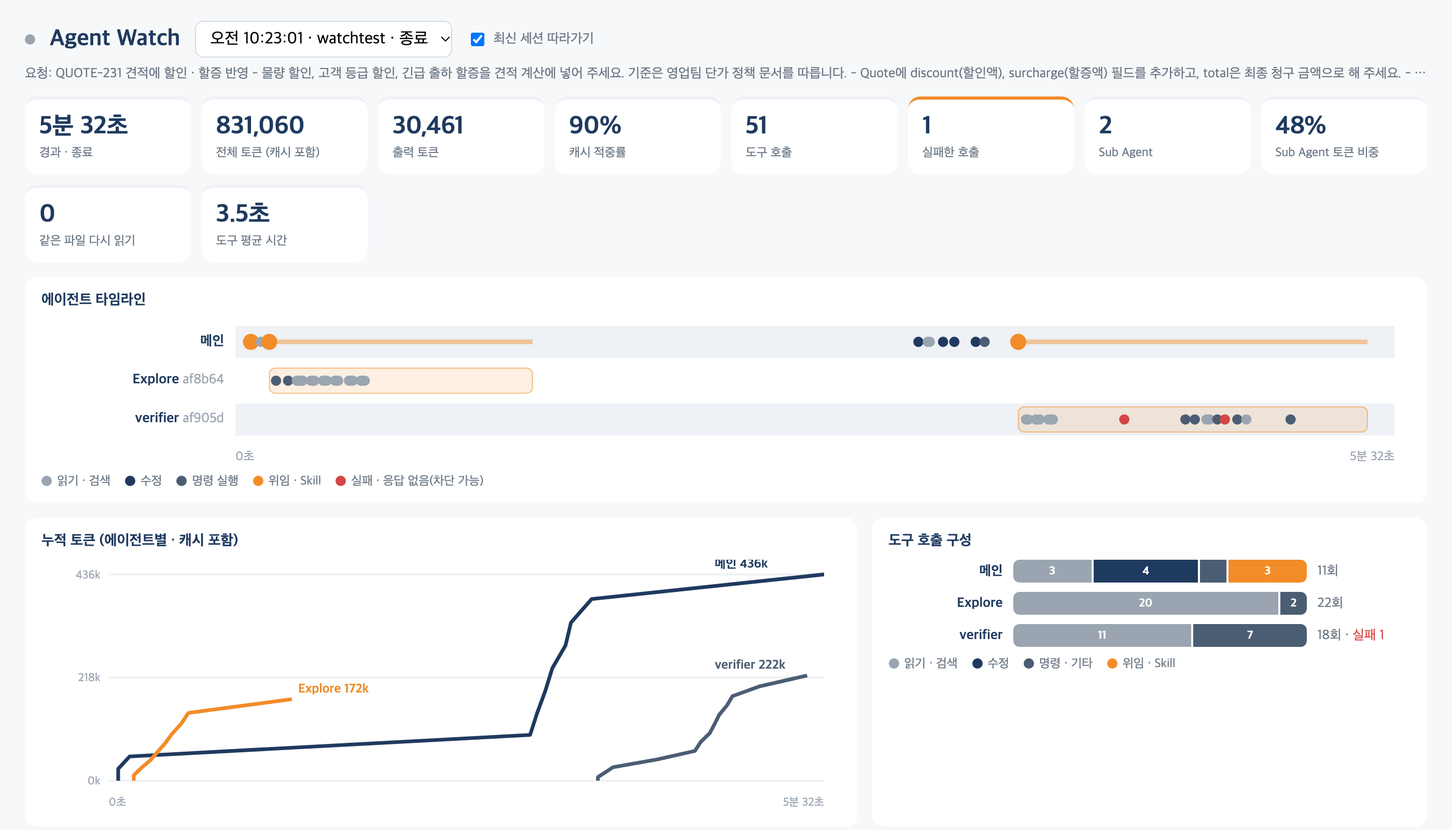
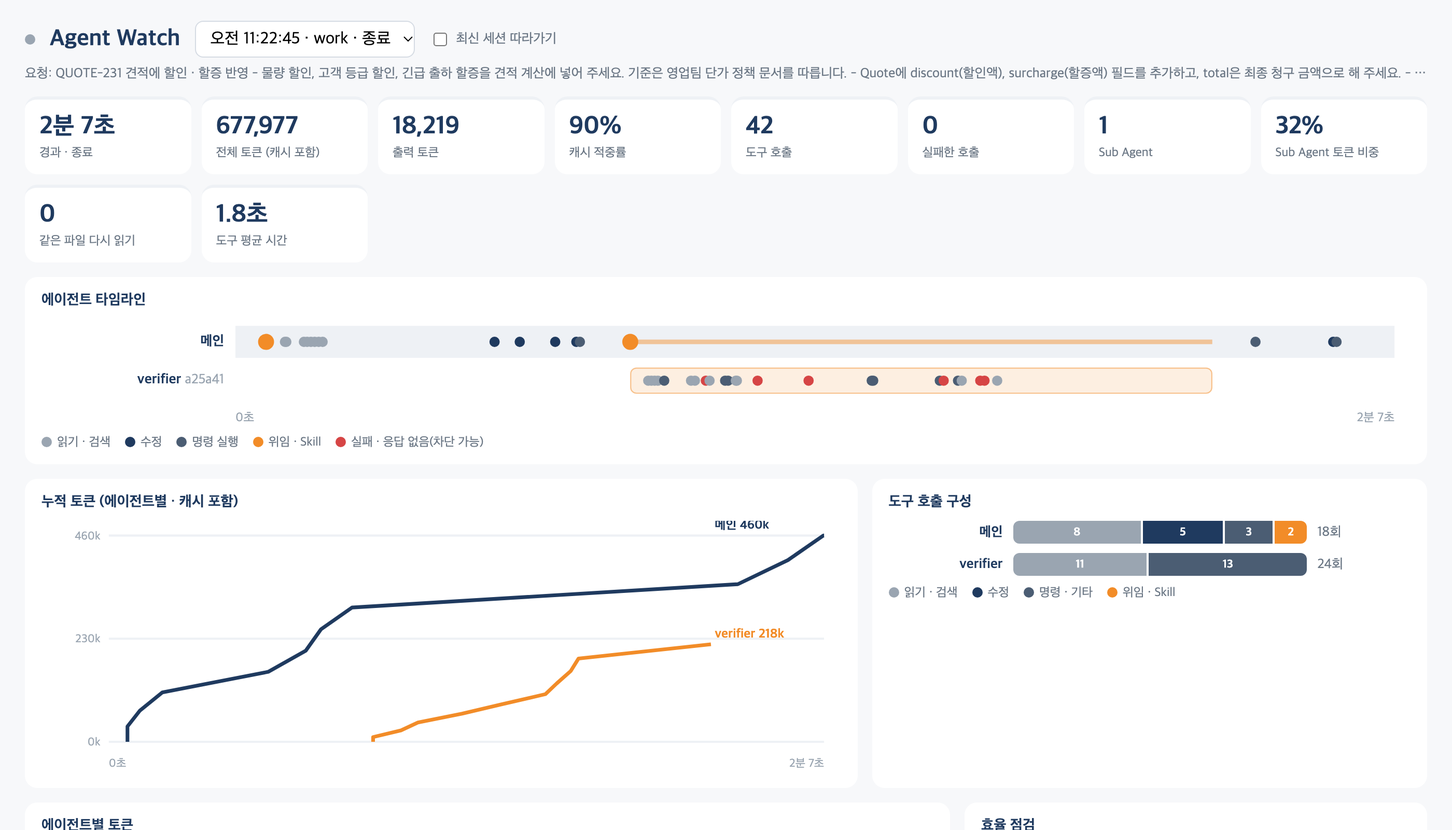
Sonnet 5.5로 재측정 (19회 · 저장소 안/밖 변형) — Ch4 실측 슬라이드 2장, Agent Watch 캡처 교체, 모델 5.5 고정 · --variant · --watch · 편차 표시

diff --git a/docs/index.html b/docs/index.html
@@ -1419,12 +1419,20 @@ if any(b in i.get('command', '') for b in bad) \
   <div class="body"><div class="mid"><table class="dbt"><thead><tr><th>항목</th><th>확인</th></tr></thead><tbody><tr><td><b>Hook · 명령</b></td><td>어떤 명령을 실행하는가 · 외부 전송은 없는가</td></tr><tr><td><b>권한</b></td><td>자동 허용 범위가 넓지 않은가</td></tr><tr><td><b>토큰</b></td><td>상시 로드되는 Skill · 지침 양</td></tr><tr><td><b>사내 규정</b></td><td>외부 저장소 설치 허용 여부</td></tr></tbody></table><div class="dbnote"><span>원칙</span> 공개 하네스도 내 평가셋으로 잰 뒤에 쓴다</div></div></div>
 </section>
 
-<section class="slide lt" data-title="실측: 같은 과제, 세 조건 (Sonnet)">
+<section class="slide lt" data-title="실측 ①: 정보가 저장소에 다 있을 때">
   <div class="coord"><b></b> / <span class="tot"></span></div>
   <div class="eyebrow"><span class="tag">Ch4</span></div>
-  <h2 class="s-title sm">실측: 같은 과제, 세 조건 (Sonnet)</h2>
+  <h2 class="s-title sm">실측 ①: 정보가 저장소에 다 있을 때</h2>
   <div class="rule"></div>
-  <div class="body"><div class="mid"><div class="hbars"><div class="hbt">숨은 인수 테스트 통과 (15개 중) · 견적 할인 · 할증 과제</div><div class="hb" style="--d:0.00s"><span class="hn">맨몸 ×3</span><span class="ht"><span class="hf" style="width:100.0%"></span></span><span class="hv">15 · 15 · 15</span></div><div class="hb" style="--d:0.10s"><span class="hn">내 하네스 ×3</span><span class="ht"><span class="hf" style="width:100.0%"></span></span><span class="hv">15 · 15 · 15</span></div><div class="hb hl" style="--d:0.20s"><span class="hn">Superpowers ×1</span><span class="ht"><span class="hf" style="width:1.3%"></span></span><span class="hv">0 (질문하고 멈춤)</span></div></div><div class="hbars"><div class="hbt">평균 시간 (막대) · 전체 토큰 (캐시 포함)</div><div class="hb" style="--d:0.00s"><span class="hn">맨몸</span><span class="ht"><span class="hf" style="width:55.0%"></span></span><span class="hv">165초 · 52만</span></div><div class="hb hl" style="--d:0.10s"><span class="hn">내 하네스</span><span class="ht"><span class="hf" style="width:96.3%"></span></span><span class="hv">289초 · 72만</span></div><div class="hb" style="--d:0.20s"><span class="hn">Superpowers</span><span class="ht"><span class="hf" style="width:30.0%"></span></span><span class="hv">90초 · 29만</span></div></div><div class="dbnote"><span>배운 점</span> 정보가 저장소에 다 있으면 Sonnet은 맨몸으로도 맞춤 · 하네스는 절차를 고정하지만 비용이 듦 · 대화형 하네스는 자동 실행에서 멈춤</div><div class="src">출처 · <a href="https://github.com/TunaLee/posco-dx/tree/main/labs/demo_quote" target="_blank" rel="noopener">직접 실측 2026.10 · labs/demo_quote</a></div></div></div>
+  <div class="body"><div class="mid"><div class="hbars"><div class="hbt">Claude Sonnet 5.5 · 견적 할인 · 할증 과제 · 숨은 인수 테스트 (15개 중)</div><div class="hb" style="--d:0.00s"><span class="hn">맨몸 ×5</span><span class="ht"><span class="hf" style="width:100.0%"></span></span><span class="hv">15 · 15 · 15 · 15 · 15</span></div><div class="hb" style="--d:0.10s"><span class="hn">내 하네스 ×5</span><span class="ht"><span class="hf" style="width:100.0%"></span></span><span class="hv">15 · 15 · 15 · 15 · 15</span></div><div class="hb hl" style="--d:0.20s"><span class="hn">Superpowers ×3</span><span class="ht"><span class="hf" style="width:1.3%"></span></span><span class="hv">0 · 0 · 0 (질문하고 멈춤)</span></div></div><div class="hbars"><div class="hbt">실행 1회 평균 토큰 (캐시 포함) · 시간 (중앙값)</div><div class="hb" style="--d:0.00s"><span class="hn">맨몸</span><span class="ht"><span class="hf" style="width:51.7%"></span></span><span class="hv">31만 토큰 · 43초</span></div><div class="hb hl" style="--d:0.10s"><span class="hn">내 하네스</span><span class="ht"><span class="hf" style="width:86.7%"></span></span><span class="hv">52만 토큰 · 92초</span></div><div class="hb" style="--d:0.20s"><span class="hn">Superpowers</span><span class="ht"><span class="hf" style="width:33.3%"></span></span><span class="hv">20만 토큰 · 29초</span></div></div><div class="dbnote"><span>배운 점</span> 답이 저장소에 있으면 Sonnet 5.5는 맨몸으로도 맞춘다 · 하네스는 절차를 고정하는 대신 토큰 1.7배 · 대화형 하네스는 자동 실행에서 멈춘다</div><div class="src">출처 · <a href="https://github.com/TunaLee/posco-dx/tree/main/labs/demo_quote" target="_blank" rel="noopener">직접 실측 2026.10.14 · Sonnet 5.5 · labs/demo_quote</a></div></div></div>
+</section>
+
+<section class="slide lt" data-title="실측 ②: 확정 정보가 저장소 밖에 있을 때">
+  <div class="coord"><b></b> / <span class="tot"></span></div>
+  <div class="eyebrow"><span class="tag">Ch4</span></div>
+  <h2 class="s-title sm">실측 ②: 확정 정보가 저장소 밖에 있을 때</h2>
+  <div class="rule"></div>
+  <div class="body"><div class="mid"><div class="hbars"><div class="hbt">같은 과제 · 확정 회의록만 저장소에서 뺌 (확정본은 하네스 Skill에만)</div><div class="hb" style="--d:0.00s"><span class="hn">맨몸 ×3</span><span class="ht"><span class="hf" style="width:51.3%"></span></span><span class="hv">5 · 13 · 5</span></div><div class="hb hl" style="--d:0.10s"><span class="hn">내 하네스 ×3</span><span class="ht"><span class="hf" style="width:100.0%"></span></span><span class="hv">15 · 15 · 15</span></div></div><div class="qt"><p>2026Q3 개정안은 「검토 중」인 초안이라 쓰지 않았습니다. 2025 시행본을 적용했습니다</p><span>맨몸 Sonnet 5.5의 작업 보고 (3회 중 2회)</span></div><div class="dbnote"><span>배운 점</span> 모델은 신중했고 가정도 밝혔지만, 회사가 확정한 사실은 모른다 → 그 지식을 넣는 것이 하네스</div><div class="src">출처 · <a href="https://github.com/TunaLee/posco-dx/tree/main/labs/demo_quote" target="_blank" rel="noopener">직접 실측 2026.10.14 · Sonnet 5.5 · labs/demo_quote</a></div></div></div>
 </section>
 
 <section class="slide lt labs" data-title="[실습 4-1] 같은 과제, 네 가지 하네스">

diff --git a/labs/agent_watch/dashboard.html b/labs/agent_watch/dashboard.html
@@ -101,6 +101,8 @@ function pickSession(){
   const sel = document.getElementById("sel");
   const opts = ids.map(id => `<option value="${id}">${new Date((S[id].started||0)*1000).toLocaleTimeString("ko-KR")} · ${esc((S[id].cwd||"").split("/").pop())} · ${esc(S[id].status||"")}</option>`).join("");
   if (sel.dataset.o !== opts) { sel.innerHTML = opts; sel.dataset.o = opts; }
+  const want = new URLSearchParams(location.search).get("session");   // ?session=앞부분 으로 고정
+  if (want && !cur) { cur = ids.find(id => id.startsWith(want) || (S[id].cwd || "").includes(want)) || null; if (cur) document.getElementById("follow").checked = false; }
   if (document.getElementById("follow").checked || !cur || !S[cur]) cur = ids[0];
   sel.value = cur;
   return S[cur];

diff --git a/labs/demo_quote/dashboard.py b/labs/demo_quote/dashboard.py
@@ -12,8 +12,11 @@ from pathlib import Path
 HERE = Path(__file__).resolve().parent
 RUNS = HERE / "runs"
 N, G, O, L = "#1F3A5F", "#9AA5B1", "#F28C28", "#EEF1F5"
-LABEL = {"bare": "하네스 없음", "harness": "내 하네스", "superpowers": "Superpowers"}
-ORDER = ["bare", "harness", "superpowers"]
+LABEL = {"bare": "하네스 없음", "harness": "내 하네스", "superpowers": "Superpowers",
+         "repo:bare": "저장소 · 맨몸", "repo:harness": "저장소 · 내 하네스", "repo:superpowers": "저장소 · Superpowers",
+         "ext:bare": "저장소 밖 · 맨몸", "ext:harness": "저장소 밖 · 내 하네스", "ext:superpowers": "저장소 밖 · Superpowers"}
+ORDER = [f"{v}:{c}" for v in ("repo", "ext") for c in ("bare", "harness", "superpowers")]
+CLS = lambda k: k.split(":")[-1]
 
 
 def total_tokens(r):
@@ -30,13 +33,18 @@ def avg(xs):
 
 
 def bars(title, unit, rows, fmt="{:,.0f}", better="high"):
-    mx = max([v for _, v in rows] + [1e-9])
+    """rows: (조건, 평균[, 최소, 최대])"""
+    rows = [(r[0], r[1], r[2] if len(r) > 2 else None, r[3] if len(r) > 3 else None) for r in rows]
+    mx = max([(r[3] if r[3] is not None else r[1]) for r in rows] + [1e-9])
     out = f'<div class="card"><h3>{title} <small>{ {"high": "높을수록 좋음", "low": "낮을수록 좋음"}.get(better, "")}</small></h3>'
-    for name, v in rows:
+    for name, v, lo, hi in rows:
         w = 100 * v / mx
+        rng = (f'<span class="rng" style="left:{100 * lo / mx:.1f}%;width:{max(.6, 100 * (hi - lo) / mx):.1f}%"></span>'
+               if lo is not None and hi is not None and hi > lo else "")
+        spread = f'<small> ({fmt.format(lo)}~{fmt.format(hi)})</small>' if rng else ""
         out += (f'<div class="bar"><span class="bl">{LABEL.get(name, name)}</span>'
-                f'<span class="track"><span class="fill {name}" style="width:{w:.1f}%"></span></span>'
-                f'<span class="bv">{fmt.format(v)}{unit}</span></div>')
+                f'<span class="track"><span class="fill {CLS(name)}" style="width:{w:.1f}%"></span>{rng}</span>'
+                f'<span class="bv">{fmt.format(v)}{unit}{spread}</span></div>')
     return out + "</div>"
 
 
@@ -94,11 +102,18 @@ def main():
             rs.append(r)
     if not rs:
         raise SystemExit("runs/ 에 결과가 없다. 먼저 run_demo.py 를 돌린다.")
-    conds = [c for c in ORDER if any(r["cond"] == c for r in rs)]
-    by = {c: [r for r in rs if r["cond"] == c] for c in conds}
-    agg = lambda f: [(c, avg([f(r) for r in by[c]])) for c in conds]
+    key = lambda r: f'{r.get("variant", "repo")}:{r["cond"]}'
+    conds = [c for c in ORDER if any(key(r) == c for r in rs)]
+    by = {c: [r for r in rs if key(r) == c] for c in conds}
+
+    def agg(f):
+        out = []
+        for c in conds:
+            xs = [f(r) for r in by[c] if f(r) is not None]
+            out.append((c, avg(xs), min(xs) if xs else 0, max(xs) if xs else 0))
+        return out
     head = "".join(
-        f'<div class="kpi {c}"><b>{LABEL[c]}</b><span>{len(by[c])}회</span>'
+        f'<div class="kpi {CLS(c)}"><b>{LABEL[c]}</b><span>{len(by[c])}회 · {", ".join(sorted({m.replace("claude-", "") for r in by[c] for m in r.get("models_used", [])}))}</span>'
         f'<em>{avg([r["hidden_pass"] for r in by[c]]):.1f}<small>/15</small></em><i>숨은 테스트 평균</i></div>' for c in conds)
     grid = (bars("숨은 테스트 통과", "/15", agg(lambda r: r["hidden_pass"]), "{:.1f}")
             + bars("회귀 테스트", "/5", agg(lambda r: r["regression_pass"]), "{:.1f}")
@@ -111,12 +126,12 @@ def main():
     rows = ""
     for r in rs:
         rows += ("<tr>" + "".join(f"<td>{x}</td>" for x in [
-            r["name"], LABEL.get(r["cond"]), f'{r["hidden_pass"]}/15', f'{r["regression_pass"]}/5',
+            r["name"], LABEL.get(key(r)), f'{r["hidden_pass"]}/15', f'{r["regression_pass"]}/5',
             "O" if r["regression_file_unchanged"] else "<b class=o>수정됨</b>",
             f"{total_tokens(r):,}", f'{r.get("output", 0):,}', r["wall_s"], r.get("turns"),
             ", ".join(r["sub_agents"]) or "-", ", ".join(r["skills"]) or "-", r["blocked"] + r["stop_blocked"],
             " · ".join(n for n, k in (("2025", "read_2025"), ("초안", "read_draft"), ("회의록", "read_minutes"), ("확정본", "read_reference")) if r.get(k)) or "-", r["rule_violations"]]) + "</tr>")
-    tls = "".join(f'<div class="card"><h3>{r["name"]} · {LABEL.get(r["cond"])} · 숨은 테스트 {r["hidden_pass"]}/15</h3>{timeline(r["name"])}</div>'
+    tls = "".join(f'<div class="card"><h3>{r["name"]} · {LABEL.get(key(r))} · 숨은 테스트 {r["hidden_pass"]}/15</h3>{timeline(r["name"])}</div>'
                   for r in rs)
     page = f"""<!doctype html><html lang="ko"><meta charset="utf-8"><meta name="viewport" content="width=device-width,initial-scale=1">
 <title>하네스 비교 대시보드</title>
@@ -130,15 +145,17 @@ h1{{margin:0 0 4px;font-size:26px}} .sub{{color:#6B7785;margin-bottom:20px}}
 .grid{{display:grid;grid-template-columns:repeat(auto-fill,minmax(420px,1fr));gap:14px;margin-bottom:18px}}
 .card{{background:#fff;border-radius:12px;padding:16px 18px;margin-bottom:14px}} .card h3{{margin:0 0 12px;font-size:15px}}
 .card h3 small{{color:#9AA5B1;font-weight:500;margin-left:6px}}
-.bar{{display:grid;grid-template-columns:110px 1fr 90px;align-items:center;gap:10px;margin:7px 0;font-size:13px}}
-.track{{background:{L};height:16px;border-radius:8px;overflow:hidden}} .fill{{display:block;height:100%;background:{G}}}
+.bar{{display:grid;grid-template-columns:150px 1fr 170px;align-items:center;gap:10px;margin:7px 0;font-size:13px}}
+.track{{background:{L};height:16px;border-radius:8px;overflow:hidden;position:relative}}
+.rng{{position:absolute;top:6px;height:4px;background:{N};opacity:.55;border-radius:2px}}
+.bv small{{color:#9AA5B1;font-weight:500}} .fill{{display:block;height:100%;background:{G}}}
 .fill.harness{{background:{O}}} .fill.superpowers{{background:{N}}} .bv{{text-align:right;font-weight:700}}
 table{{border-collapse:collapse;width:100%;font-size:12.5px;background:#fff}} th,td{{padding:7px 8px;border-bottom:1px solid {L};text-align:left}}
 th{{background:{N};color:#fff;font-weight:600}} .o{{color:{O}}}
 .tl{{width:100%;height:auto}} .ln{{font-size:12px;fill:{N};font-weight:700}} .ax{{font-size:11px;fill:#9AA5B1}}
 .legend span{{display:inline-flex;align-items:center;gap:6px;margin-right:16px;font-size:13px}} .legend i{{width:11px;height:11px;border-radius:50%;display:inline-block}}
 </style>
-<h1>하네스 비교 대시보드</h1><div class="sub">같은 과제 (QUOTE-231 할인 · 할증) · 모델 {rs[0]["model"]} · 숨은 인수 테스트 15개로 채점</div>
+<h1>하네스 비교 대시보드</h1><div class="sub">같은 과제 (QUOTE-231 할인 · 할증) · 메인 모델 {rs[0]["model"]} · 숨은 인수 테스트 15개로 채점 · 막대 = 평균, 짙은 선 = 최소~최대</div>
 <div class="kpis">{head}</div><div class="grid">{grid}</div>
 <div class="card"><h3>실행별 상세</h3><table><tr><th>실행</th><th>조건</th><th>숨은 테스트</th><th>회귀</th><th>회귀 파일</th><th>전체 토큰</th><th>출력</th><th>초</th><th>턴</th><th>Sub Agent</th><th>Skill</th><th>차단</th><th>읽은 정책</th><th>규칙 위반</th></tr>{rows}</table></div>
 <div class="card legend"><h3>타임라인</h3><span><i style="background:{O}"></i>Sub Agent · Skill · Hook 차단</span><span><i style="background:{N}"></i>파일 수정</span><span><i style="background:{G}"></i>읽기 · 검색 · 실행</span></div>

diff --git a/labs/demo_quote/run_demo.py b/labs/demo_quote/run_demo.py
@@ -8,6 +8,8 @@
 
 사용
   python3 run_demo.py --cond bare harness --k 3            # 실제 실행 (계정 사용량 소모)
+  python3 run_demo.py --variant ext --cond bare harness     # 확정 정책이 저장소 밖(하네스 안)에만 있을 때
+  python3 run_demo.py --watch ...                           # Agent Watch(../agent_watch)로 실시간 보기
   python3 run_demo.py --show-cmd --cond harness            # 명령만 보기
   python3 dashboard.py                                     # runs/ 결과를 대시보드 HTML로
 """
@@ -28,42 +30,53 @@ RUNS = HERE / "runs"
 SUPERPOWERS = Path.home() / ".claude/plugins/cache/superpowers-marketplace/superpowers/5.1.0"
 TOOLS = "Read,Grep,Glob,Edit,Write,MultiEdit,TodoWrite,Task,Agent,Skill,Bash(python3:*),Bash(ls:*),Bash(cat:*)"
 TEST_CMD = [sys.executable, "-m", "unittest"]
+MODEL = "claude-sonnet-5-5"
+# 별칭(sonnet · haiku · opus)도 5.5 세대로 고정 — Sub Agent(Explore=haiku 등)까지
+ALIASES = {"ANTHROPIC_DEFAULT_SONNET_MODEL": "claude-sonnet-5-5",
+           "ANTHROPIC_DEFAULT_HAIKU_MODEL": "claude-haiku-5-5",
+           "ANTHROPIC_DEFAULT_OPUS_MODEL": "claude-opus-5-5"}
+MINUTES = "docs/wiki/회의록_2026-09-02_단가정책확정.md"
+WATCH = HERE.parent / "agent_watch"
 
 
 def sha(p):
     return hashlib.sha256(Path(p).read_bytes()).hexdigest()
 
 
-def prepare(cond, name):
+def prepare(cond, name, variant, watch):
     wd = RUNS / name / "work"
     shutil.copytree(HERE / "project", wd)
+    if variant == "ext":                      # 확정 내용이 저장소에 없다 (하네스에만)
+        (wd / MINUTES).unlink()
     if cond == "harness":
         shutil.copytree(HERE / "harness", wd, dirs_exist_ok=True)
+    if watch:
+        subprocess.run([sys.executable, str(WATCH / "install.py"), str(wd)], check=True, capture_output=True)
     return wd
 
 
-def command(cond, model):
+def command(cond, model, watch=False):
     cmd = ["claude", "-p", (HERE / "task.md").read_text(encoding="utf-8"),
            "--model", model, "--output-format", "stream-json", "--verbose",
            "--permission-mode", "acceptEdits", "--allowedTools", TOOLS]
-    if cond == "harness":
-        cmd += ["--setting-sources", "project"]
-    else:
-        cmd += ["--setting-sources", ""]
+    src = ["project"] if cond == "harness" else []
+    if watch:
+        src.append("local")                   # Agent Watch Hook (settings.local.json)
+    cmd += ["--setting-sources", ",".join(src)]
     if cond == "superpowers":
         cmd += ["--plugin-dir", str(SUPERPOWERS)]
     return cmd
 
 
-def run_agent(cond, name, model, timeout):
-    wd = prepare(cond, name)
-    env = dict(os.environ)
+def run_agent(cond, name, model, timeout, variant, watch):
+    wd = prepare(cond, name, variant, watch)
+    env = dict(os.environ, **ALIASES)
     env.pop("ANTHROPIC_API_KEY", None)          # 구독(Business · Max) 계정으로
     env["CLAUDE_PROJECT_DIR"] = str(wd)
     t0 = time.time()
     events = []
     with open(RUNS / name / "events.jsonl", "w", encoding="utf-8") as log:
-        p = subprocess.Popen(command(cond, model), cwd=wd, env=env, stdout=subprocess.PIPE,
+        p = subprocess.Popen(command(cond, model, watch), cwd=wd, env=env, stdout=subprocess.PIPE,
                              stderr=subprocess.DEVNULL, text=True)
         try:
             for line in p.stdout:
@@ -143,16 +156,17 @@ def grade(wd, name):
             if (root / rel).exists():
                 return root / rel
     m["files_changed"] = sorted(str(p.relative_to(wd)) for p in wd.rglob("*")
-                                if p.is_file() and "__pycache__" not in p.parts
+                                if p.is_file() and "__pycache__" not in p.parts and p.name != "settings.local.json"
                                 and (base(p.relative_to(wd)) is None or sha(p) != sha(base(p.relative_to(wd)))))
     return m
 
 
-def one(cond, i, model, timeout, stamp):
-    name = f"{stamp}_{cond}_{i}"
+def one(cond, i, model, timeout, stamp, variant, watch):
+    name = f"{stamp}_{variant}_{cond}_{i}"
     (RUNS / name).mkdir(parents=True)
-    wd, events, wall = run_agent(cond, name, model, timeout)
-    res = {"name": name, "cond": cond, "model": model, "wall_s": wall, **analyse(events), **grade(wd, name)}
+    wd, events, wall = run_agent(cond, name, model, timeout, variant, watch)
+    res = {"name": name, "cond": cond, "variant": variant, "model": model, "wall_s": wall, **analyse(events), **grade(wd, name)}
+    res["models_used"] = sorted((res.get("model_usage") or {}).keys())
     (RUNS / name / "result.json").write_text(json.dumps(res, ensure_ascii=False, indent=1), encoding="utf-8")
     return res
 
@@ -161,22 +175,24 @@ def main():
     ap = argparse.ArgumentParser()
     ap.add_argument("--cond", nargs="+", default=["bare", "harness"], choices=["bare", "harness", "superpowers"])
     ap.add_argument("--k", type=int, default=1)
-    ap.add_argument("--model", default="sonnet")
+    ap.add_argument("--model", default=MODEL)
+    ap.add_argument("--variant", default="repo", choices=["repo", "ext"], help="repo: 정보가 저장소에 다 있음 · ext: 확정 회의록이 저장소에 없음")
+    ap.add_argument("--watch", action="store_true", help="Agent Watch Hook 켜기 (서버를 먼저 켠다)")
     ap.add_argument("--parallel", type=int, default=3)
     ap.add_argument("--timeout", type=int, default=1500)
     ap.add_argument("--show-cmd", action="store_true")
     a = ap.parse_args()
     if a.show_cmd:
         for c in a.cond:
-            print(c, ":", " ".join(repr(x) if " " in x or not x else x for x in command(c, a.model)))
+            print(c, ":", " ".join(repr(x) if " " in x or not x else x for x in command(c, a.model, a.watch)))
         return
     stamp = time.strftime("%m%d-%H%M%S")
     jobs = [(c, i) for i in range(1, a.k + 1) for c in a.cond]
     with cf.ThreadPoolExecutor(a.parallel) as ex:
-        futs = {ex.submit(one, c, i, a.model, a.timeout, stamp): (c, i) for c, i in jobs}
+        futs = {ex.submit(one, c, i, a.model, a.timeout, stamp, a.variant, a.watch): (c, i) for c, i in jobs}
         for f in cf.as_completed(futs):
             r = f.result()
-            print(f"{r['name']:<28} 숨은 테스트 {r['hidden_pass']:>2}/15  회귀 {r['regression_pass']}/5  "
+            print(f"{r['name']:<34} {','.join(r['models_used'])}  숨은 테스트 {r['hidden_pass']:>2}/15  회귀 {r['regression_pass']}/5  "
                   f"Sub Agent {len(r['sub_agents'])}  Skill {len(r['skills'])}  차단 {r['blocked']}  "
                   f"턴 {r.get('turns')}  {r['wall_s']}s  출력 {r.get('output')}  "
                   f"읽음: 2025 {'O' if r['read_2025'] else '-'} 초안 {'O' if r['read_draft'] else '-'} 회의록 {'O' if r['read_minutes'] else '-'} 확정본 {'O' if r['read_reference'] else '-'}", flush=True)

diff --git a/src/hx.py b/src/hx.py
@@ -66,7 +66,7 @@ D_PTC = ("Anthropic 문서 · Programmatic tool calling", "https://platform.clau
 D_CCSKILLS = ("Claude Code Skills 문서", "https://code.claude.com/docs/en/skills")
 OAI_MA = ("OpenAI 문서 · Responses multi-agent", "https://developers.openai.com/api/docs/guides/responses-multi-agent")
 OAI_SUB = ("OpenAI Codex 문서 · Subagents", "https://learn.chatgpt.com/docs/agent-configuration/subagents")
-OWN = ("직접 실측 2026.10 · labs/demo_quote", "https://github.com/TunaLee/posco-dx/tree/main/labs/demo_quote")
+OWN = ("직접 실측 2026.10.14 · Sonnet 5.5 · labs/demo_quote", "https://github.com/TunaLee/posco-dx/tree/main/labs/demo_quote")
 
 code = explain.prompt
 REPO = "https://github.com/TunaLee/posco-dx/tree/main/labs"
@@ -528,12 +528,19 @@ def ch4():
             ["<b>토큰</b>", "상시 로드되는 Skill · 지침 양"],
             ["<b>사내 규정</b>", "외부 저장소 설치 허용 여부"],
         ]) + note("원칙", "공개 하네스도 내 평가셋으로 잰 뒤에 쓴다"), "Ch4"),
-        stat("실측: 같은 과제, 세 조건 (Sonnet)", "Ch4",
-             hbars([("맨몸 ×3", 15, False, "15 · 15 · 15"), ("내 하네스 ×3", 15, False, "15 · 15 · 15"), ("Superpowers ×1", 0.2, True, "0 (질문하고 멈춤)")], top=15,
-                   title="숨은 인수 테스트 통과 (15개 중) · 견적 할인 · 할증 과제")
-             + hbars([("맨몸", 165, False, "165초 · 52만"), ("내 하네스", 289, True, "289초 · 72만"), ("Superpowers", 90, False, "90초 · 29만")], top=300,
-                     title="평균 시간 (막대) · 전체 토큰 (캐시 포함)")
-             + note("배운 점", "정보가 저장소에 다 있으면 Sonnet은 맨몸으로도 맞춤 · 하네스는 절차를 고정하지만 비용이 듦 · 대화형 하네스는 자동 실행에서 멈춤"),
+        stat("실측 ①: 정보가 저장소에 다 있을 때", "Ch4",
+             hbars([("맨몸 ×5", 15, False, "15 · 15 · 15 · 15 · 15"), ("내 하네스 ×5", 15, False, "15 · 15 · 15 · 15 · 15"),
+                    ("Superpowers ×3", 0.2, True, "0 · 0 · 0 (질문하고 멈춤)")], top=15,
+                   title="Claude Sonnet 5.5 · 견적 할인 · 할증 과제 · 숨은 인수 테스트 (15개 중)")
+             + hbars([("맨몸", 31, False, "31만 토큰 · 43초"), ("내 하네스", 52, True, "52만 토큰 · 92초"), ("Superpowers", 20, False, "20만 토큰 · 29초")], top=60,
+                     title="실행 1회 평균 토큰 (캐시 포함) · 시간 (중앙값)")
+             + note("배운 점", "답이 저장소에 있으면 Sonnet 5.5는 맨몸으로도 맞춘다 · 하네스는 절차를 고정하는 대신 토큰 1.7배 · 대화형 하네스는 자동 실행에서 멈춘다"),
+             OWN),
+        stat("실측 ②: 확정 정보가 저장소 밖에 있을 때", "Ch4",
+             hbars([("맨몸 ×3", 7.7, False, "5 · 13 · 5"), ("내 하네스 ×3", 15, True, "15 · 15 · 15")], top=15,
+                   title="같은 과제 · 확정 회의록만 저장소에서 뺌 (확정본은 하네스 Skill에만)")
+             + quote("2026Q3 개정안은 「검토 중」인 초안이라 쓰지 않았습니다. 2025 시행본을 적용했습니다", "맨몸 Sonnet 5.5의 작업 보고 (3회 중 2회)")
+             + note("배운 점", "모델은 신중했고 가정도 밝혔지만, 회사가 확정한 사실은 모른다 → 그 지식을 넣는 것이 하네스"),
              OWN),
         lab("4-1", "같은 과제, 네 가지 하네스", "Ch4",
             "맨몸 · 내 하네스 · Superpowers · gstack 비교",

diff --git a/labs/demo_quote/README.md b/labs/demo_quote/README.md
@@ -1,0 +1,37 @@
+# demo_quote — 하네스 없는 Agent vs 있는 Agent 실측
+
+견적 계산 모듈(가상)에 「할인 · 할증 반영」 과제를 주고, 조건별로 여러 번 돌려 **숨은 인수 테스트 15개**로 채점한다.
+
+| 조건 | 구성 |
+|---|---|
+| `bare` | 저장소만 (CLAUDE.md · .claude 없음, 내 PC 설정도 끊음) |
+| `harness` | + `harness/` — CLAUDE.md · `pricing-change` Skill(정책 확정본 포함) · `verifier` Sub Agent · Hook(테스트 보호 · 끝내기 전 테스트) |
+| `superpowers` | + Superpowers 플러그인 |
+
+| 변형 | 내용 |
+|---|---|
+| `repo` | 2025 정책 · 2026Q3 초안 · 확정 회의록이 모두 `docs/wiki/`에 있음 |
+| `ext` | 확정 회의록을 저장소에서 뺌 → 확정본은 하네스 Skill에만 |
+
+```bash
+python3 run_demo.py --variant repo --cond bare harness --k 5   # 실제 실행 (계정 사용량 소모)
+python3 run_demo.py --watch ...                                 # ../agent_watch 로 실시간 보기 (서버 먼저)
+python3 dashboard.py                                            # runs/dashboard.html
+```
+
+모델은 `claude-sonnet-5-5`로 고정하고, 별칭(sonnet · haiku · opus)도 5.5 세대로 묶는다 (`ANTHROPIC_DEFAULT_*_MODEL`). Claude Code 2.1.195에서 `--model sonnet`은 Sonnet 4.6을 가리키므로 꼭 전체 이름을 쓴다.
+
+## 결과 (2026-10-14 · Claude Sonnet 5.5 · 19회)
+
+| 변형 · 조건 | 횟수 | 숨은 테스트 (15) | 평균 토큰 (캐시 포함) | 시간 (중앙값) |
+|---|---|---|---|---|
+| repo · 맨몸 | 5 | 15 · 15 · 15 · 15 · 15 | 31만 | 43초 |
+| repo · 내 하네스 | 5 | 15 · 15 · 15 · 15 · 15 | 52만 | 92초 |
+| repo · Superpowers | 3 | 0 · 0 · 0 (brainstorming이 질문하고 멈춤) | 20만 | 29초 |
+| ext · 맨몸 | 3 | 5 · 13 · 5 | 26만 | 46초 |
+| ext · 내 하네스 | 3 | 15 · 15 · 15 | 55만 | 84초 |
+
+- 정보가 저장소에 다 있으면 맨몸도 맞춘다. 하네스는 절차(Skill → 테스트 → verifier)를 매번 지키지만 토큰 약 1.7배.
+- 확정 정보가 저장소 밖에 있으면 맨몸은 2025 시행본(2회) 또는 초안(1회)을 골라 틀린다. 모델은 가정을 밝혔지만 회사가 확정한 사실은 모른다.
+- 회귀 테스트(5개)는 모든 실행이 통과, 회귀 테스트 파일을 고친 실행은 없음.
+- 이전 Sonnet 4.6 결과는 `runs/old-sonnet46/` (저장소에는 올리지 않음).

diff --git a/labs/demo_quote/harness/.claude/agents/verifier.md b/labs/demo_quote/harness/.claude/agents/verifier.md
@@ -2,7 +2,7 @@
 name: verifier
 description: 견적 계산 변경을 정책 문서와 코딩 규칙에 대조해 검증한다. 코드는 고치지 않는다.
 tools: Read, Grep, Glob, Bash
-model: sonnet
+model: claude-sonnet-5-5
 ---
 
 너는 검증 담당이다. 파일을 고치지 않는다.
